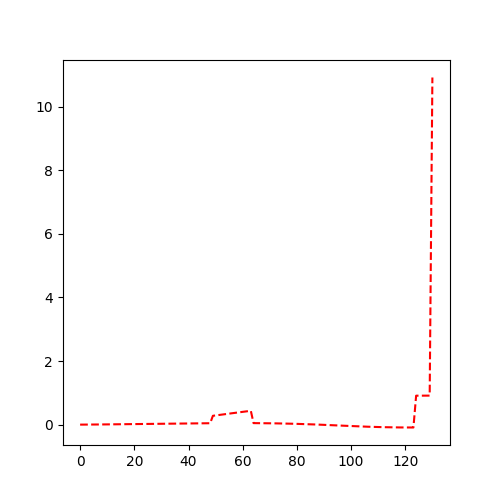
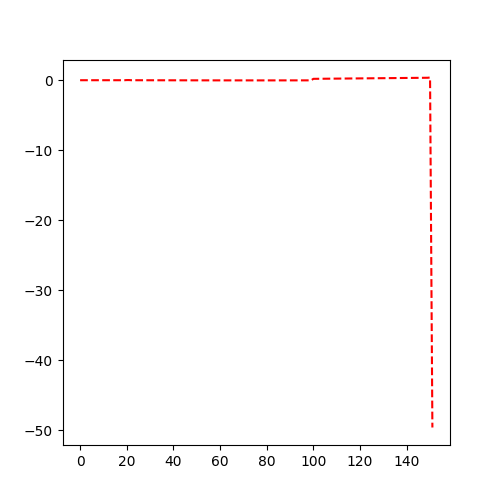
commit sync

diff --git a/simulations/point.py b/simulations/point.py
@@ -99,9 +99,9 @@ class PointEnv(AgentModel):
         for _ in range(0, self.frame_skip):
             self.sim.step()
         next_obs = self._get_obs()
-        #reward = np.sum(np.square(self.data.qvel[:2] / self.VELOCITY_LIMITS)) / 2
-        #reward = -np.square(self.data.qvel[2]) * 5e-3
-        return next_obs, 0.0, False, {}
+        reward = np.sum(np.square(self.data.qvel[:2] / self.VELOCITY_LIMITS)) / 2
+        reward = -np.square(self.data.qvel[2]) * 5e-3
+        return next_obs, reward, False, {}
 
     def gaussian(self, x, mean, std):
         return np.exp(-0.5 * ((x - mean) / std) ** 2)
@@ -178,4 +178,4 @@ class PointEnvV2(PointEnv):
         next_obs = self._get_obs()
         reward = np.sum(np.square(self.data.qvel[:2] / self.VELOCITY_LIMITS)) / 2
         reward = -np.square(self.data.qvel[2]) * 1e-3
-        return next_obs, 0.0, False, {}
+        return next_obs, reward, False, {}
